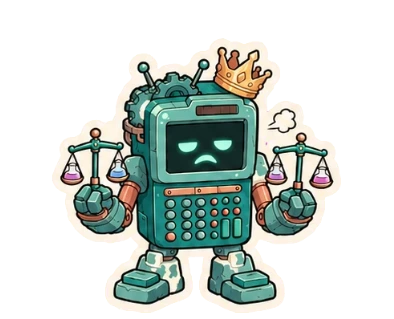
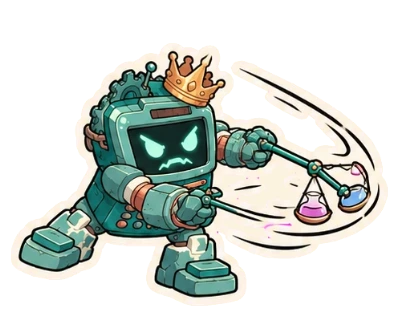
i-boss-a 补充拼图接上：更安静的待机 3 格、攻击补成 5 格；换帧前先调好格子
- source/teach/boss-i-boss-a-frames-2.webp／.json：补充的 3×2 拼图（第 1 行 中立、吸气、呼气；第 2 行 蓄力、挥下、余势）；
  第一张的 .json 改成只取受击 3 格＋出击＋收招，第 1 行第 1 格写 "ref": true（只定缩放比例、不输出）
- assets/teach：待机＝呼气、中立、吸气（来回播）；攻击＝蓄力、挥下、出击、余势、收招（共 5 格）；受击不变
- scripts/teach/art-slice.js：frame 格子支持 "ref": true（让两张拼图的格子比例对得上）
- js/teach.js：预载时记下每张帧的宽高，换图之前就把格子调好（两张拼图的画布大小不同，不会有一瞬间拉伸）；
  攻击的停留时间改成 5 格 [320, 130, 170, 200, 260]
- 文档：补充提示词改成 GPT 实际画得好的样子（第 2 行三格都是攻击动作）；CUSTOMIZE／OPERATIONS 跟着改

Claude-Session: https://claude.ai/code/session_01JfQC5kFTCr7Zn1xaGFeGha

diff --git a/js/teach.js b/js/teach.js
@@ -33,7 +33,7 @@
   const WALK_MS = 1100;          // 通关後小精灵沿路走到新关要多久（毫秒）
   // 魔王逐帧动画每一格停多久（毫秒）。待机来回播（1→2→3→2→1…），慢慢呼吸；受击、攻击每一格单独设：撞击那格快、定格那格久、收招再慢一点。
   // 数字比格数少（或以後多画了几格）就一直用最後一个
-  const FRAME_MS = { idle: 500, hit: [120, 300, 220], atk: [320, 140, 260] };
+  const FRAME_MS = { idle: 500, hit: [120, 300, 220], atk: [320, 130, 170, 200, 260] };
   const FRAME_BASE = 320;        // 切图 spec 里 size 的值（单张魔王图的边长）：逐帧图按它当「1 倍」放进格子，比单张图宽／高的部分（冲刺、速度线）露在格子外面
   const ROAD_PAINT_MS = 800;     // 新走通的路「染色」要多久（毫秒）
   const FIT_PAD = 28;            // 「适配」时四周留多宽
@@ -213,9 +213,10 @@
   function stopFrames(img) { if (img._tmFrames) { clearTimeout(img._tmFrames); img._tmFrames = 0; } }
   const pingPong = a => (a.length > 2 ? [...a, ...a.slice(1, -1).reverse()] : a);   // 1,2,3 → 1,2,3,2：循环时来回，不会从最後一格「跳」回第一格
   // 帧图的画布比单张魔王图宽／高（装得下冲刺、速度线）：角色要和单张图一样大，就按「画布 ÷ FRAME_BASE」放大格子、底边对齐、水平居中
-  function fitFrame(img) {
-    if (!img.dataset.fr || !img.naturalWidth) return;
-    const w = img.naturalWidth / FRAME_BASE * 100, hh = img.naturalHeight / FRAME_BASE * 100;
+  const frameDims = new Map();   // 帧网址 → [宽, 高]（预载时记下；换图之前就把格子调好，不会有一瞬间拉伸）
+  function fitFrame(img, nw = img.naturalWidth, nh = img.naturalHeight) {
+    if (!img.dataset.fr || !nw) return;
+    const w = nw / FRAME_BASE * 100, hh = nh / FRAME_BASE * 100;
     img.style.cssText = `position:absolute;bottom:0;left:50%;width:${w}%;height:${hh}%;margin-left:${-w / 2}%;max-width:none;object-fit:fill`;
   }
   function playFrames(img, urls, loop, done, ms) {
@@ -223,13 +224,14 @@
     let i = 0;
     img.dataset.fr = '1';
     if (!img._tmFit) { img._tmFit = 1; img.addEventListener('load', () => fitFrame(img)); }
-    img.src = urls[0];
+    const show = u => { const d = frameDims.get(u); if (d) fitFrame(img, d[0], d[1]); img.src = u; };
+    show(urls[0]);
     const wait = k => (Array.isArray(ms) ? ms[Math.min(k, ms.length - 1)] : ms);
     const next = () => {
       img._tmFrames = setTimeout(() => {
         if (!document.contains(img)) return stopFrames(img);   // 画面换掉了就自己停
         if (++i >= urls.length) { if (!loop) { stopFrames(img); if (done) done(); return; } i = 0; }
-        img.src = urls[i];
+        show(urls[i]);
         next();
       }, wait(i));
     };
@@ -238,7 +240,7 @@
   // 魔王图出现时：预载全部帧，有待机帧就开始循环
   function bossAlive(img, id) {
     if (!img || !canFx()) return;
-    ['idle', 'hit', 'atk'].forEach(a => frameList(id, a).forEach(u => { new Image().src = u; }));
+    ['idle', 'hit', 'atk'].forEach(a => frameList(id, a).forEach(u => { const im = new Image(); im.onload = () => frameDims.set(u, [im.naturalWidth, im.naturalHeight]); im.src = u; }));
     img.dataset.base = img.getAttribute('src');
     const idle = frameList(id, 'idle');
     if (idle.length > 1) { img.classList.add('is-framed'); playFrames(img, pingPong(idle), true, null, FRAME_MS.idle); }

diff --git a/scripts/teach/art-slice.js b/scripts/teach/art-slice.js
@@ -20,6 +20,7 @@
  *                     并且把「角色身体（这格里最大的那一块）」的脚底中点对在同一个位置，播起来角色不会忽大忽小、跳来跳去。
  *                     name = 输出档名，例如 boss-i-boss-a-hit-1；group 随便取（同一魔王的所有格取同一个，连待机／受击／攻击也一起对齐）。
  *                     这一组的第一格当「中立姿势」：缩成和单张魔王图一样大（size = 单张图的边长）；其余格同一个比例。
+ *                     想让第二张拼图的格子和第一张对上：每张拼图的第一格都放中立姿势；不想输出那一格就加 "ref": true（只定比例，不输出）。
  *                     输出画布不是方的：以锚点（躯干重心、脚底）为中心，宽高刚好装下这一组里伸出去最远的一格，网站按同样的比例放回原来的格子（js/teach.js 的 FRAME_BASE）。
  *                     不同拼图之间也能对上——只要各自的第一格都是中立姿势、size 一样。
  */
@@ -196,10 +197,11 @@ const OUT = path.join(ROOT, 'assets', 'teach');
     for (const list of Object.values(frames)) {
       // 缩放比例：这一组的第一格（中立姿势）和单张魔王图一样大（长边占 1 - 2×pad）；整组共用，所以挥手、冲刺不会让角色忽大忽小。
       // 画布：以锚点为中心左右对称，宽度取这一组里伸出去最远的一格，高度取最高的一格——冲刺、速度线放得下，角色不会为了它们缩小
-      const size = list[0].sp.size, pad = list[0].sp.pad || 0.02, ref = list[0], pp = size * pad;
+      // spec 里写了 "ref": true 的格子只用来定缩放比例（例如另一张拼图里的中立姿势），不输出、也不算画布范围
+      const size = list[0].sp.size, pad = list[0].sp.pad || 0.02, ref = list.find(g => g.sp.ref) || list[0], pp = size * pad, out = list.filter(g => !g.sp.ref);
       const sc = size * (1 - 2 * pad) / Math.max(ref.w, ref.h);
-      const Wc = Math.ceil(2 * (Math.max(...list.map(g => Math.max(g.ax, g.w - g.ax))) * sc + pp)), Hc = Math.ceil(Math.max(...list.map(g => g.ay)) * sc + 2 * pp);
-      for (const g of list) {
+      const Wc = Math.ceil(2 * (Math.max(...out.map(g => Math.max(g.ax, g.w - g.ax))) * sc + pp)), Hc = Math.ceil(Math.max(...out.map(g => g.ay)) * sc + 2 * pp);
+      for (const g of out) {
         const f = document.createElement('canvas'); f.width = Wc; f.height = Hc; const fx = f.getContext('2d'); fx.imageSmoothingQuality = 'high';
         fx.drawImage(g.tmp, 0, 0, g.w, g.h, Wc / 2 - g.ax * sc, Hc - pp - g.ay * sc, g.w * sc, g.h * sc);
         const [b64, bytes] = await toB64(f);

diff --git a/docs/CUSTOMIZE.md b/docs/CUSTOMIZE.md
@@ -49,7 +49,7 @@
 | 教学地图的缩放与镜头：最小／最大倍数、每按一下放大几倍、缩到多小只留圆盘、飞行多久、拖多远才算拖、宽于多少用左→右 | `js/teach.js` | `ZOOM_MIN`、`ZOOM_MAX`、`ZOOM_STEP`、`ZOOM_FAR`、`FLY_MS`、`DRAG_PX`、`HORIZONTAL_MIN`、`FIT_PAD` | `0.3`、`1.8`、`1.25`、`0.5`、`480`（毫秒）、`6`（像素）、`720`（像素）、`28` | 🟢 `HORIZONTAL_MIN` 改了，手机／平板的排法分界线就跟着变；系统开了「减少动态」时镜头不飞、直接跳过去；进地图时镜头停在「下一关」上 |
 | 关卡的一句话重点（点关卡弹出的气泡里） | `data/teach/chemistry.json`（每关可选的 `gist`）、`js/teach.js`（`gistOf`） | `gist`、`gistOf` | 没写 `gist` 就用知识卡的「记住」那一句（`lesson.tip`）；目前只有 4 关（气体定律、电解计算、增碳反应、化学键）因为 tip 太长另写了短的 | 🟢 最多 26 字，合并前检查会挡 |
 | 关卡的介绍气泡有多宽 | `js/teach.js` | `BUBBLE_W` | `272`（屏幕像素，不随地图缩放；窄屏会自动缩到画布宽减 16） | 🟢 气泡的样子在 `css/teach.css` 的 `.tm-bubble` |
-| 闯关与地图的动效：答对迸几颗星、过关撒几片彩带、小精灵沿路飞多久、新走通的路染色多久、魔王逐帧动画每一格停多久 | `js/teach.js` | `FX_BURST`、`FX_CONFETTI`、`WALK_MS`、`ROAD_PAINT_MS`、`FRAME_MS`、`FRAME_BASE` | `14`、`40`（魔王倒下 1.5 倍）、`1100`（毫秒）、`800`（毫秒）、`{ idle: 500, hit: [120, 300, 220], atk: [320, 140, 260] }`（毫秒；待机每格 500 并且来回播 1→2→3→2；受击、攻击每一格各自的停留时间，数字比格数少就一直用最後一个）、`320`（切图 `size`，要和 `source/teach/*.json` 里逐帧格的 `size` 一致，不然帧里的魔王会比单张图大或小） | 🟢 系统开了「减少动态」时全部不播、只换状态（小精灵换表情、血条掉格）；彩带、星星用你给的 `fx-*` 图（见下一行）或内置小图形；动画本身的样子在 `css/teach.css` 的 `@keyframes tm-` 开头那几段 |
+| 闯关与地图的动效：答对迸几颗星、过关撒几片彩带、小精灵沿路飞多久、新走通的路染色多久、魔王逐帧动画每一格停多久 | `js/teach.js` | `FX_BURST`、`FX_CONFETTI`、`WALK_MS`、`ROAD_PAINT_MS`、`FRAME_MS`、`FRAME_BASE` | `14`、`40`（魔王倒下 1.5 倍）、`1100`（毫秒）、`800`（毫秒）、`{ idle: 500, hit: [120, 300, 220], atk: [320, 130, 170, 200, 260] }`（毫秒；待机每格 500 并且来回播 1→2→3→2；受击、攻击每一格各自的停留时间——攻击 5 格依次是蓄力、挥下、出击、余势、收招；数字比格数少就一直用最後一个，所以换成别的魔王格数不同也不会坏）、`320`（切图 `size`，要和 `source/teach/*.json` 里逐帧格的 `size` 一致，不然帧里的魔王会比单张图大或小） | 🟢 系统开了「减少动态」时全部不播、只换状态（小精灵换表情、血条掉格）；彩带、星星用你给的 `fx-*` 图（见下一行）或内置小图形；动画本身的样子在 `css/teach.css` 的 `@keyframes tm-` 开头那几段 |
 | 魔王战的血条（颜色、格数） | `css/teach.css`、`js/teach.js` | `--tm-hp`（颜色，护眼版另有一个）、`bossNeed`（格数） | 红色 `#d9483f`；格数 = 过关要答对的题数（魔王关 5 题对 4 题 → 4 格） | 🟡 格数跟着 `BOSS_RATIO`、`BOSS_POOL` 走，不要单独改；答错不扣血条、只是魔王反击，规则没变 |
 | 魔王战里魔王的大小（题目上方的横幅、结果页） | `css/teach.css` | `--tm-boss-size`（横幅）、`--tm-boss-big`（结果页） | `104px`、`160px` | 🟢 逐帧动画的魔王按同样的比例跟着放大；手机窄屏上横幅太高就把 `--tm-boss-size` 调小 |
 | 岛上的风景：每座岛摆几件、摆什么 | `js/teach.js`、`data/teach/chemistry.json` | `SCENERY_PER_ZONE`；每张地图的 `scenery`（图案名清单） | 每座展开的岛 `9` 件；无机＝工厂、气球、烧杯、气瓶…，有机＝苯环、碳链、酒精灯、蒸馏塔…，物化＝晶体、秒表、天平、火焰… | 🟢 `scenery` 只能写 `MOTIFS` 里有的名字，写错合并前检查会挡；摆放位置用固定种子算的，重画不会变；填 `0` 就不摆；有你给的 `deco-<地图 id>-<序号>.webp` 时，会和内置图案轮流摆（见 [ART_BRIEF.md](ART_BRIEF.md) 第五批） |

diff --git a/docs/ART_BRIEF.md b/docs/ART_BRIEF.md
@@ -251,16 +251,16 @@
 
 **每个动作要几格**：待机 3 格（来回播，实际 4 步：1→2→3→2）、受击 3 格、**攻击 5 格**。攻击是 3 格最「跳」的一个——手臂举过头顶的蓄力和冲出去的出击之间差得太多，加两格中间帧（挥到一半、出击後的余势）就顺了；待机和受击 3 格够了，多画几格只会让 AI 更难画一致。
 
-**追加：补攻击中间帧＋换一行更安静的待机**（在同一个对话里接着发，这样角色最像）。这张是 3 列 × 2 行，比例选 3:2，每行第 1 格是和第一张一模一样的中立姿势（我对齐用，切完不用）：
+**追加：补攻击中间帧＋换一行更安静的待机**（在同一个对话里接着发，这样角色最像）。这张是 3 列 × 2 行，比例选 3:2；第 1 行第 1 格是和第一张一模一样的中立姿势（我对齐用）：
 
 ```
 请接着上一张动作拼图，再画一张补充拼图：同一个角色（以上一张第 1 行第 1 格的中立姿势为准），3 列 × 2 行共 6 格，每格大小相同，格与格之间留出空白，不要画格线。造型、配色、线条粗细、整体大小和上一张完全一致，每格里角色居中、脚底在同一条水平线上；烧瓶里药水的颜色和位置，要和上一张第 1 行第 1 格的每一个烧瓶一一对应，不要对调。背景同样是纯洋红 #FF00FF，没有阴影、没有渐层、没有地面，不要文字和数字，不要血。
-每一行的第 1 格都是中立姿势，和上一张第 1 行第 1 格一模一样；其余两格如下。
-第 1 行 待机（呼吸）：②吸气：整个身体比中立姿势稍微拉高一点点（约 3%），两个天平的托盘微微上抬，表情不变；③呼气：整个身体比中立姿势稍微压低一点点（约 3%），托盘微微下沉，眼睛略微眯一点。这一行不要速度线、不要任何特效，身体轮廓几乎不变。
-第 2 行 攻击的中间帧：②挥下途中：身体向前倾到一半，双手把天平从头顶往前压下来，天平在半空中，眼神凶，身後只有一条很短很淡的速度线；③出击後的余势：身体仍向前倾但开始回弹，天平甩出去又往回荡，药水甩出一点点水花，速度线变淡变短。
+第 1 行第 1 格是中立姿势，和上一张第 1 行第 1 格一模一样（我对齐用）。
+第 1 行 待机（呼吸）：①中立姿势；②吸气：整个身体比中立姿势稍微拉高一点点（约 3%），两个天平的托盘微微上抬，表情不变；③呼气：整个身体比中立姿势稍微压低一点点（约 3%），托盘微微下沉，眼睛略微眯一点。这一行不要速度线、不要任何特效，身体轮廓几乎不变。
+第 2 行 攻击（不需要中立姿势，三格都是攻击动作）：①蓄力：双手把天平举过头顶，身体微微後缩，眼神变凶；②挥下途中：身体向前倾，双手把天平从头顶往前压下来，天平在半空中，身後只有一条很短很淡的速度线；③出击後的余势：身体仍向前倾但开始回弹，天平甩出去又往回荡，药水甩出一点点水花，速度线变淡变短。
 ```
 
-切好後我这样排：待机 = 呼气、中立、吸气（来回播就是 呼气→中立→吸气→中立，最顺）；攻击 = 蓄力（第一张）→ 挥下途中（新）→ 出击（第一张）→ 余势（新）→ 收招（第一张），共 5 格。
+切好後我这样排：待机 = 呼气、中立、吸气（来回播就是 呼气→中立→吸气→中立，最顺）；攻击 = 蓄力（新）→ 挥下途中（新）→ 出击（第一张里冲刺那格）→ 余势（新）→ 收招（第一张里最後那格），共 5 格。（i-boss-a 的实际做法，GPT 在第 2 行第 1 格直接画了蓄力而不是中立姿势，反而更好用，所以上面的提示词已经改成这样。）
 
 **可以变的**：格数不一定是 3——任何动作 1～6 格都行，序号只要从 1 连续；只给了 `hit`／`atk` 没给 `idle` 也行（待机就还是静态图加原来的晃动）；只想要单张姿势图的话，`boss-<魔王 id>-hit.webp`／`-atk.webp`（不带序号）仍然可用。
 
